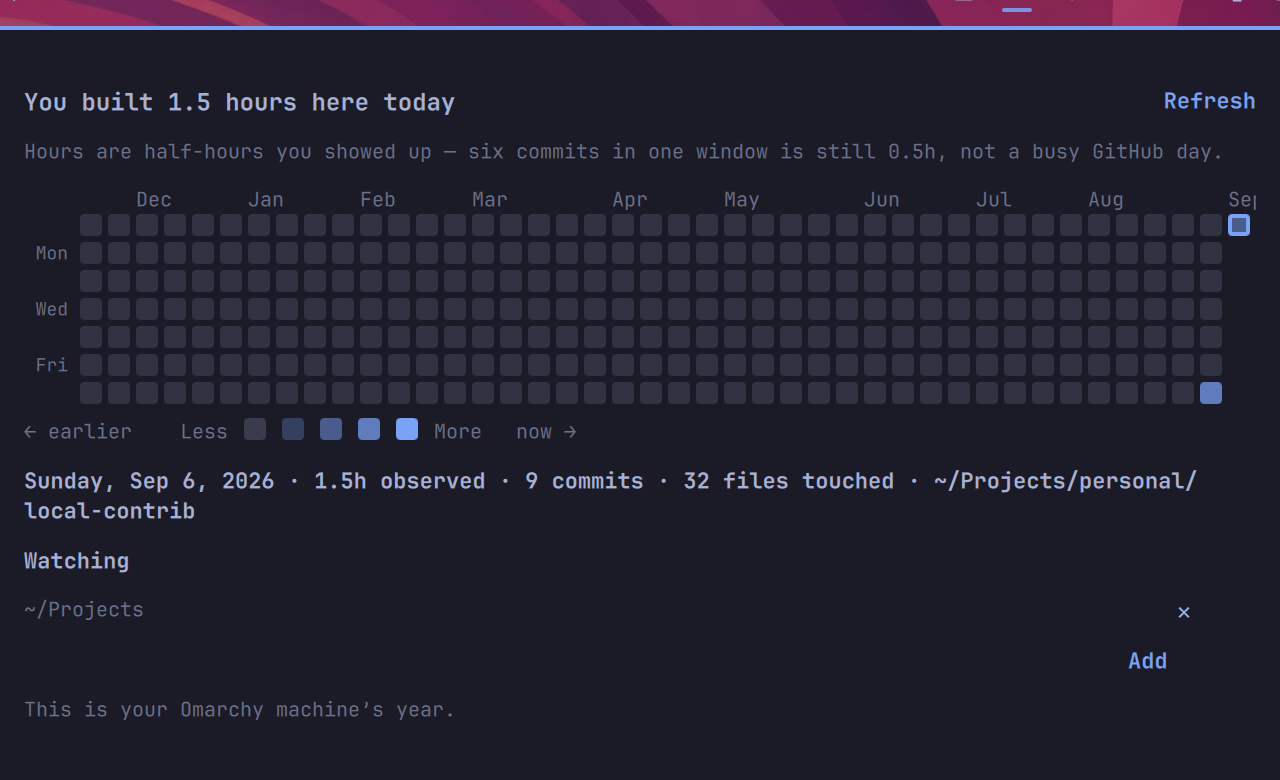
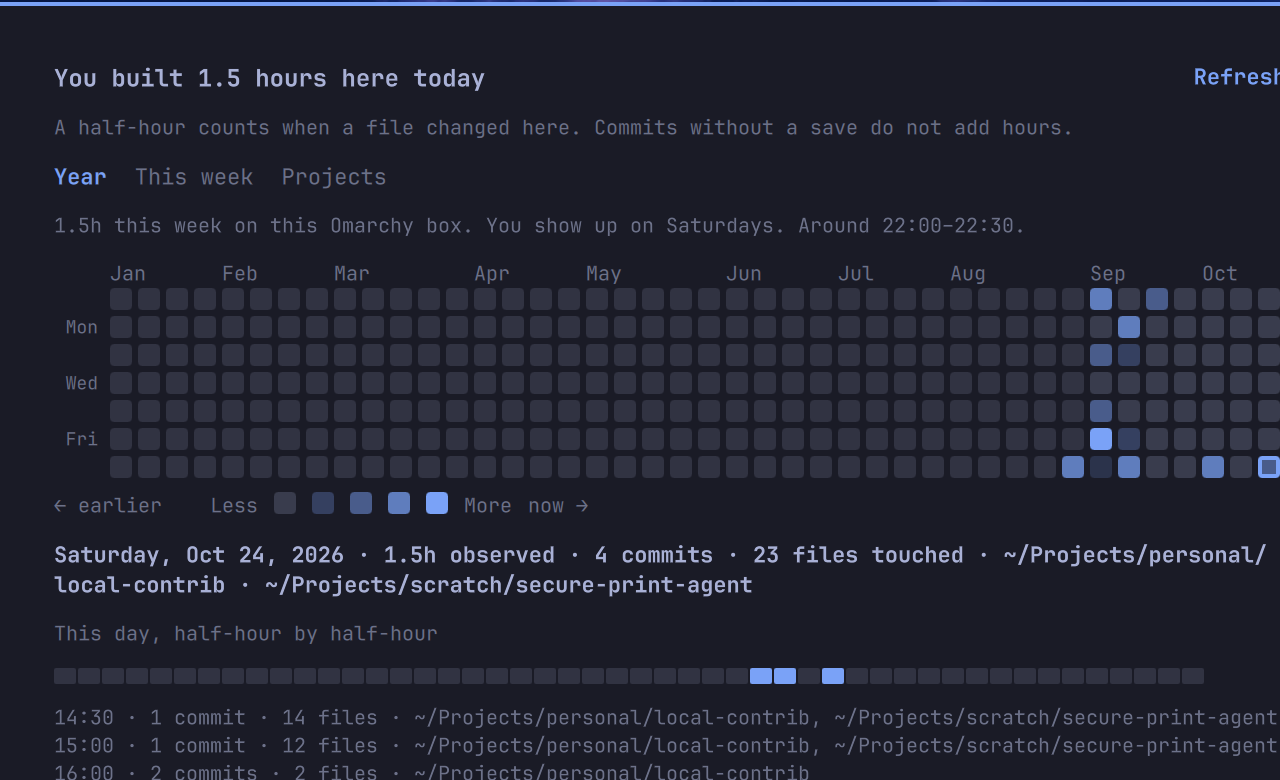
fix(garden): stop year-detail text binding loops (#7)
* fix(garden): drop year-detail text height bindings

Opening the panel selects today, so the three day-detail labels become visible.
Each label bound height to implicitHeight. Qt warns about a binding loop, and the lifecycle script exits 1 after GARDEN_TEST_PASS.

A Column skips hidden children. A Text with no explicit height uses its content height. Removing the three bindings keeps those heights and drops the warning.

* chore(garden): show the year view in preview.png

The marketplace image was the week view. Replace it with the 1280x780 year view.

---------

diff --git a/Panel.qml b/Panel.qml
@@ -859,7 +859,6 @@ Panel {
 
           Text {
             visible: root.panelView === "year" && root.selectedDate !== ""
-            height: visible ? implicitHeight : 0
             width: parent.width - parent.leftPadding - parent.rightPadding
             color: root.contentForeground
             font.family: root.contentFontFamily
@@ -882,7 +881,6 @@ Panel {
 
           Text {
             visible: root.panelView === "year" && root.selectedDate !== ""
-            height: visible ? implicitHeight : 0
             width: parent.width - parent.leftPadding - parent.rightPadding
             text: "This day, half-hour by half-hour"
             color: root.dim
@@ -916,7 +914,6 @@ Panel {
 
           Text {
             visible: root.panelView === "year" && !!(root.selectedDate !== "" && root.selectedDay && root.selectedDay.bySlot)
-            height: visible ? implicitHeight : 0
             width: parent.width - parent.leftPadding - parent.rightPadding
             wrapMode: Text.WordWrap
             color: root.dim
